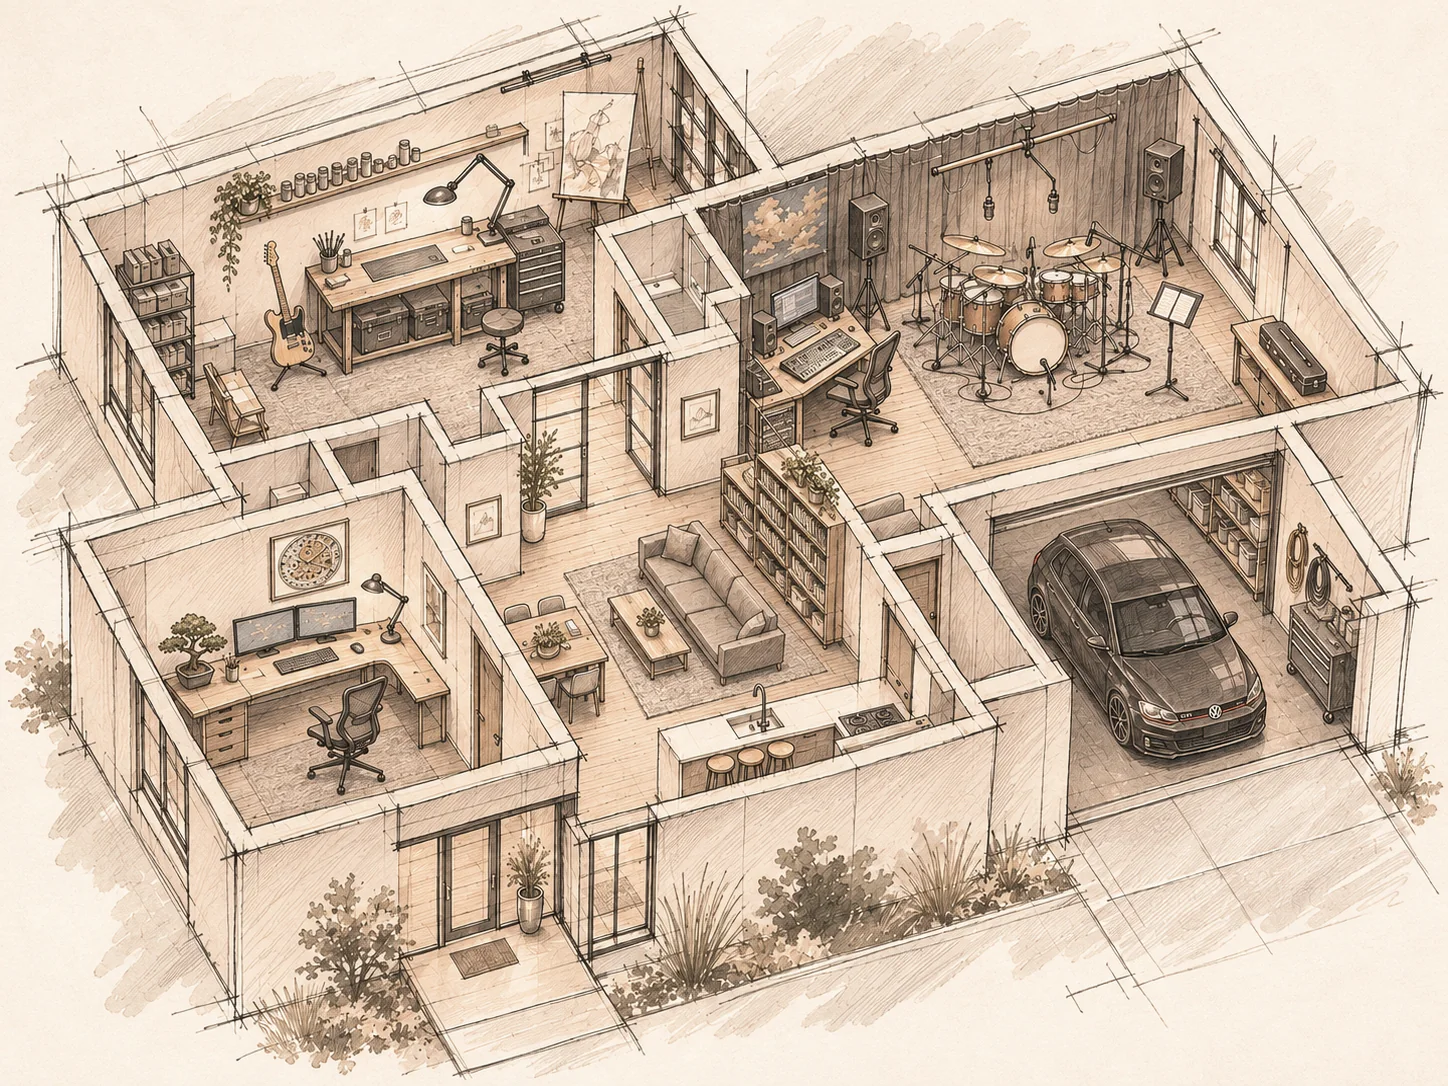
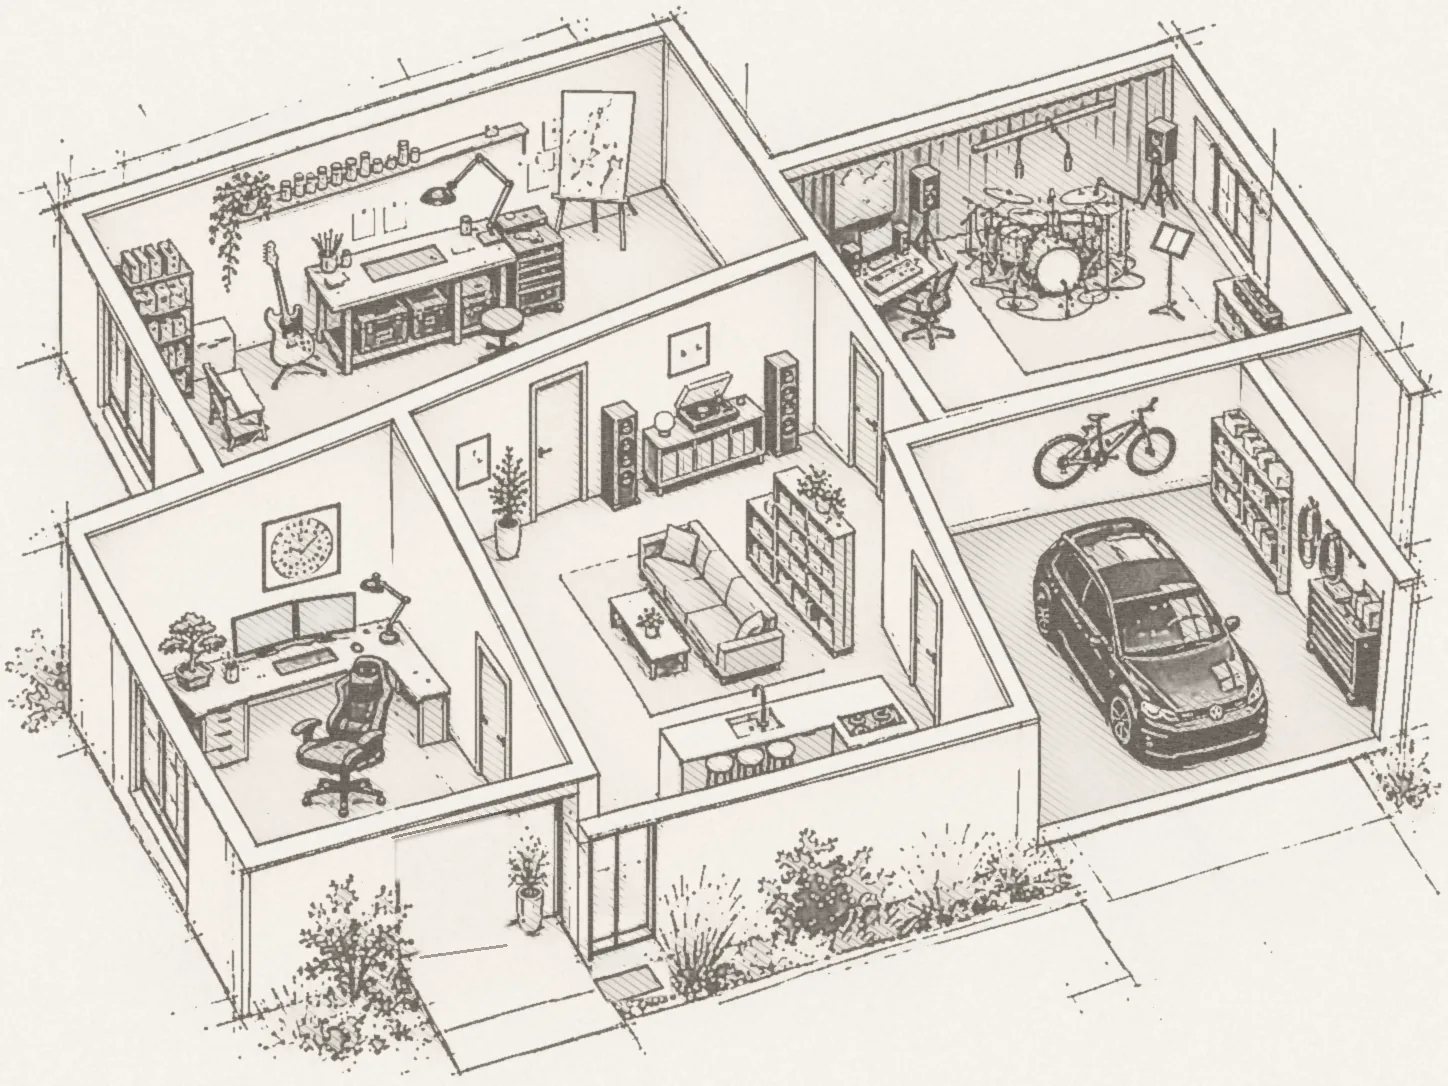
the house: every room drawing through the new sketch pass (pencil lines, light hatched shading, faint wash); new overhead with the entrance moved off the study; Secretlab-style study chair; soldering gun and multimeter on the bench; mountain bike garage; new watch desk stop on the study wall art
Claude-Session: https://claude.ai/code/session_01Jf8rDKExoC99X1NuL9zexr

diff --git a/index.html b/index.html
@@ -654,12 +654,13 @@ function openCard(which){
   /* box: x,y,w,h in the cutaway's pixels. img: the room's own sketch, shown when the camera settles there. */
   var STOPS=[
     {id:'house',  k:'The house',   h:'Everything under one roof.',          t:'Not a real floor plan: a composite of the rooms the work happens in. Each room is a door. Scroll to walk it, or click a room.', pos:'t', cover:true},
-    {id:'study',  k:'Projects',    h:'The study.',                           t:'A dedicated workspace for playing with workflows, with the tools required for photo and 360 video editing: a Canon R10, an Insta360 R1 and the liquid-cooled case required to keep all the good editing software running.', pos:'r', box:[80,500,420,330], img:'img/rooms/study.webp', href:'#projects', card:'technical'},
-    {id:'shelf',  k:'Reading',     h:'The shelf.',                           t:'Books and records I&rsquo;ve been into lately, and a few items I&rsquo;ve put together to share with whoever is interested!', pos:'r', box:[700,440,180,220], href:'#now', extra:'<a href="free/">stuff I made for you to take &rarr;</a>'},
-    {id:'bench',  k:'Builds',      h:'The guitar bench.',                    t:'A Telecaster on the stand, jars on the shelf, the toolbox on casters. The half-finished things are the honest ones.', pos:'l', box:[80,100,560,340], img:'img/rooms/guitar-bench.webp', href:'#projects'},
-    {id:'easel',  k:'Sketchbook',  h:'The easel.',                           t:'Stipple, pencil, the occasional watch dial. Whatever is under the pen right now, and everything before it.', pos:'r', box:[520,70,150,160], href:'#sketchbook'},
-    {id:'music',  k:'Music',       h:'The loud room.',                       t:'A rehearsal and recording space, ready for whenever inspiration may strike.', pos:'l', box:[700,90,620,380], img:'img/rooms/music-room.webp', href:'#about', card:'creative'},
-    {id:'garage', k:'',            h:'The Garage',                           t:'My GTI project, mountain bike and the tools to get greasy.', pos:'l', box:[960,450,430,350], img:'img/rooms/garage.webp',
+    {id:'study',  k:'Projects',    h:'The study.',                           t:'A dedicated workspace for playing with workflows, with the tools required for photo and 360 video editing: a Canon R10, an Insta360 R1 and the liquid-cooled case required to keep all the good editing software running.', pos:'r', box:[70,420,530,410], img:'img/rooms/study.webp', href:'#projects', card:'technical'},
+    {id:'watch',  k:'Watches',     h:'The watch desk.',                      t:'A loupe, a row of oilers, two parts domes, a small palette of mixed oils and two fine brushes. Automatic movements, and dials painted a dot at a time.', pos:'r', box:[255,495,100,110], img:'img/rooms/watch-desk.webp', href:'#sketchbook'},
+    {id:'shelf',  k:'Reading',     h:'The shelf.',                           t:'Books and records I&rsquo;ve been into lately, and a few items I&rsquo;ve put together to share with whoever is interested!', pos:'r', box:[590,340,280,320], href:'#now', extra:'<a href="free/">stuff I made for you to take &rarr;</a>'},
+    {id:'bench',  k:'Builds',      h:'The guitar bench.',                    t:'A Telecaster on the stand, a soldering gun on the bench and a multimeter on the toolbox. The half-finished things are the honest ones.', pos:'l', box:[90,90,700,370], img:'img/rooms/guitar-bench.webp', href:'#projects'},
+    {id:'easel',  k:'Sketchbook',  h:'The easel.',                           t:'Stipple, pencil, the occasional watch dial. Whatever is under the pen right now, and everything before it.', pos:'r', box:[540,80,110,160], href:'#sketchbook'},
+    {id:'music',  k:'Music',       h:'The loud room.',                       t:'A rehearsal and recording space, ready for whenever inspiration may strike.', pos:'l', box:[780,60,620,340], img:'img/rooms/music-room.webp', href:'#about', card:'creative'},
+    {id:'garage', k:'',            h:'The Garage',                           t:'My GTI project, mountain bike and the tools to get greasy.', pos:'l', box:[900,330,520,490], img:'img/rooms/garage.webp',
       notes:['2017 Volkswagen GTI Performance','EQT Stage 2 ECU Tune, 93 Oct','EQT TCU Tune','APR Open Intake','APR Turbo Inlet','IE Downpipe','CTS Exhaust','H&amp;R Sport Springs on OEM DCC']}
   ];
   sec.style.setProperty('--stops', STOPS.length);

diff --git a/tools/sketchify.py b/tools/sketchify.py
@@ -1,0 +1,115 @@
+"""Sketch pass: turns a polished render into a loose pencil sketch with a light wash.
+
+Every room drawing on the site goes through this, so the set shares one hand no matter
+how prettily the source was rendered. Steps:
+  1. edge-preserving smoothing flattens fine texture, glossy reflections and over-rendered hatching
+  2. XDoG (extended difference of Gaussians) pulls pencil line work out of the flattened image
+  3. a faint wash: the flattened image, heavily desaturated and pulled toward the paper colour
+  4. graphite lines multiplied over paper plus wash, with a little grain so lines read as pencil
+
+Usage: python3 tools/sketchify.py in.png out.png [--wash 0.32] [--sat 0.35] [--detail 1.0] [--smooth 60]
+  --wash   opacity of the colour wash under the lines (0 = pure pencil, 1 = full render)
+  --sat    saturation kept in the wash (0 = grey, 1 = source)
+  --detail line fineness: lower = fewer, bolder lines; higher = more, finer lines
+  --smooth how hard step 1 flattens texture (higher = flatter, fewer reflections)
+"""
+import sys, argparse
+import numpy as np
+import cv2
+
+ap = argparse.ArgumentParser()
+ap.add_argument('src'); ap.add_argument('dst')
+ap.add_argument('--wash', type=float, default=0.32)
+ap.add_argument('--sat', type=float, default=0.35)
+ap.add_argument('--detail', type=float, default=1.0)
+ap.add_argument('--smooth', type=float, default=60)
+ap.add_argument('--seed', type=int, default=3)
+ap.add_argument('--crush', type=float, default=0.0, help='0..1: flatten tones below 0.4 so reflections inside dark paint vanish')
+ap.add_argument('--eps', type=float, default=0.72, help='XDoG threshold: lower = only real edges become lines, mid-tones stay paper')
+ap.add_argument('--shade', type=float, default=0.0, help='0..1: clean hatched shading from the image darkness, drawn separately from the lines')
+ap.add_argument('--fill_lo', type=float, default=0.30)
+ap.add_argument('--fill_hi', type=float, default=0.62)
+a = ap.parse_args()
+rng = np.random.default_rng(a.seed)
+
+PAPER = np.array([235, 241, 244], np.float32) / 255.0     # BGR of #f4f1eb, the site's paper
+GRAPHITE = np.array([62, 70, 78], np.float32) / 255.0     # BGR of #4e463e, warm graphite (pencil, not ink)
+
+src = cv2.imread(a.src, cv2.IMREAD_COLOR)
+h, w = src.shape[:2]
+
+# 1. flatten: two edge-preserving passes (recursive filter) plus a light bilateral
+flat = cv2.edgePreservingFilter(src, flags=1, sigma_s=a.smooth, sigma_r=0.35)
+flat = cv2.edgePreservingFilter(flat, flags=1, sigma_s=a.smooth * 0.5, sigma_r=0.3)
+flat = cv2.bilateralFilter(flat, 7, 40, 7)
+
+# 2. XDoG line work on the flattened luminance
+g = cv2.cvtColor(flat, cv2.COLOR_BGR2GRAY).astype(np.float32) / 255.0
+if a.crush > 0:
+    T = 0.42
+    g = np.where(g < T, T - (T - g) * (1 - a.crush), g)
+    g = cv2.medianBlur((g * 255).astype(np.uint8), 5).astype(np.float32) / 255.0 * (a.crush > 0.5) + g * (a.crush <= 0.5)
+sig = 1.15 / max(0.4, a.detail)
+g1 = cv2.GaussianBlur(g, (0, 0), sig)
+g2 = cv2.GaussianBlur(g, (0, 0), sig * 1.6)
+p, eps, phi = 22.0, a.eps, 18.0
+S = (1 + p) * g1 - p * g2
+E = np.where(S >= eps, 1.0, 1.0 + np.tanh(phi * (S - eps)))
+E = np.clip(E, 0, 1)
+# soften the very darkest fills so big dark shapes read as hatched pencil, not ink
+E = 0.18 + 0.82 * E
+# drop isolated specks: anything darker than paper that is tiny and faint
+ink = (1 - E)
+ink = cv2.GaussianBlur(ink, (0, 0), 0.6)
+ink[ink < 0.08] = 0
+
+# large dark fills (a black car, drapes, a shadowed floor) become hatching instead of solid ink:
+# a sketcher shades a big dark shape with strokes and keeps its outline crisp
+fill = cv2.GaussianBlur(ink, (0, 0), 5.0)
+m = np.clip((fill - a.fill_lo) / (a.fill_hi - a.fill_lo), 0, 1)
+m = m * m * (3 - 2 * m)
+yy, xx = np.mgrid[0:h, 0:w].astype(np.float32)
+P = 6.5
+hatch = np.clip((np.cos((xx + yy) * 2 * np.pi / P) - 0.35) / 0.65, 0, 1)
+hatch2 = np.clip((np.cos((xx - yy) * 2 * np.pi / (P * 1.15)) - 0.55) / 0.45, 0, 1)
+tone = 0.30 * hatch + 0.22 * hatch2 * np.clip((fill - 0.7) / 0.3, 0, 1)
+ink = ink * (1 - m) + m * np.clip(0.30 * ink + tone * (0.55 + 0.45 * fill), 0, 0.85)
+
+# clean shading: two or three hatch levels from the smoothed darkness of the flattened image,
+# so shadows read as light pencil strokes instead of mottled fill
+if a.shade > 0:
+    dark = 1 - cv2.GaussianBlur(cv2.cvtColor(flat, cv2.COLOR_BGR2GRAY).astype(np.float32) / 255.0, (0, 0), 4.0)
+    yy2, xx2 = np.mgrid[0:h, 0:w].astype(np.float32)
+    def lines(angle, period, width=0.5):
+        t = np.cos(np.radians(angle)) * xx2 + np.sin(np.radians(angle)) * yy2
+        return np.clip((np.cos(t * 2 * np.pi / period) - (1 - width)) / width, 0, 1)
+    def step(lo, hi): return np.clip((dark - lo) / (hi - lo), 0, 1)
+    shading = (0.55 * lines(-55, 7.0) * step(0.30, 0.40)
+             + 0.45 * lines(35, 8.0) * step(0.50, 0.60)
+             + 0.35 * lines(-55, 3.5, 0.4) * step(0.70, 0.80))
+    shading = cv2.GaussianBlur(shading, (0, 0), 0.5) * a.shade
+    ink = np.maximum(ink, shading)
+
+# pencil grain: modulate line strength with fine noise, a touch of directional streak
+noise = rng.normal(0, 1, (h, w)).astype(np.float32)
+noise = cv2.GaussianBlur(noise, (0, 0), 0.7)
+streak = cv2.blur(rng.normal(0, 1, (h, w)).astype(np.float32), (9, 1))
+grain = np.clip(0.82 + 0.10 * noise + 0.08 * streak, 0.55, 1.0)
+ink = np.clip(ink * grain * 1.02, 0, 0.9)
+
+# 3. wash: flattened colour, desaturated, pulled toward paper
+hsv = cv2.cvtColor(flat, cv2.COLOR_BGR2HSV).astype(np.float32)
+hsv[..., 1] *= a.sat
+wash = cv2.cvtColor(hsv.clip(0, 255).astype(np.uint8), cv2.COLOR_HSV2BGR).astype(np.float32) / 255.0
+wash = cv2.GaussianBlur(wash, (0, 0), 1.2)
+base = PAPER * (1 - a.wash) + wash * a.wash
+# keep the wash from going muddy: lift its darkest values
+base = np.maximum(base, PAPER * 0.68)
+
+# 4. graphite over paper and wash
+out = base * (1 - ink[..., None]) + (GRAPHITE * base) * ink[..., None]
+# paper tooth over everything
+tooth = cv2.GaussianBlur(rng.normal(0, 1, (h, w)).astype(np.float32), (0, 0), 1.0)
+out = out * (1 + 0.018 * tooth[..., None])
+cv2.imwrite(a.dst, (np.clip(out, 0, 1) * 255).astype(np.uint8))
+print(a.dst, 'wash', a.wash, 'sat', a.sat, 'detail', a.detail, 'smooth', a.smooth)

diff --git a/tools/fix_overhead.py b/tools/fix_overhead.py
@@ -1,0 +1,66 @@
+"""Structural fixes painted onto the sketched overhead (after tools/sketchify.py).
+
+Works in the sketch's own vocabulary: flat wash plus graphite lines, so a patch of wall
+colour with paper tooth and a redrawn edge reads as part of the drawing.
+Fix 1 (2026-11-01, Luke): the main entrance opened into the study. The double doors and
+mat are painted out of the study's front wall; the living room's glazed front door becomes
+the entrance and gets the mat.
+Coordinates are in the 1448 x 1086 cutaway (cutaway-v3).
+
+Usage: python3 tools/fix_overhead.py sketched.png out.png
+"""
+import sys
+import numpy as np
+import cv2
+
+src, dst = sys.argv[1], sys.argv[2]
+im = cv2.imread(src, cv2.IMREAD_COLOR).astype(np.float32)
+h, w = im.shape[:2]
+rng = np.random.default_rng(7)
+GRAPHITE = np.array([62, 70, 78], np.float32)
+
+def sample(x0, y0, x1, y1):
+    return np.median(im[y0:y1, x0:x1].reshape(-1, 3), axis=0)
+
+def fill_poly(pts, colour, feather=1.5):
+    m = np.zeros((h, w), np.float32)
+    cv2.fillPoly(m, [np.array(pts, np.int32)], 1.0)
+    m = cv2.GaussianBlur(m, (0, 0), feather)
+    tooth = cv2.GaussianBlur(rng.normal(0, 1, (h, w)).astype(np.float32), (0, 0), 1.0)
+    patch = colour[None, None, :] * (1 + 0.018 * tooth[..., None])
+    im[:] = im * (1 - m[..., None]) + patch * m[..., None]
+
+def pencil_line(p0, p1, weight=2.2, strength=0.78):
+    m = np.zeros((h, w), np.float32)
+    # two passes slightly apart, like a pencil line drawn twice
+    cv2.line(m, tuple(map(int, p0)), tuple(map(int, p1)), 1.0, int(round(weight)), cv2.LINE_AA)
+    q0 = (p0[0] + 0.6, p0[1] + 0.9); q1 = (p1[0] - 0.5, p1[1] + 0.8)
+    m2 = np.zeros((h, w), np.float32)
+    cv2.line(m2, tuple(map(int, q0)), tuple(map(int, q1)), 0.45, 1, cv2.LINE_AA)
+    m = np.clip(m + m2, 0, 1)
+    grain = np.clip(0.85 + 0.12 * cv2.GaussianBlur(rng.normal(0, 1, (h, w)).astype(np.float32), (0, 0), 0.7), 0.5, 1)
+    m = m * grain * strength
+    base = im.copy()
+    im[:] = base * (1 - m[..., None]) + (GRAPHITE / 255.0 * base) * m[..., None]
+
+# --- fix 1: entrance out of the study ---
+wall = sample(322, 822, 382, 858)          # plain stretch of the same front wall
+ground = sample(526, 958, 560, 988)        # the landing in front of the old door
+# copy the doormat before painting it out, so it can move to the living room door
+mat_box = (446, 932, 532, 978)
+mat = im[mat_box[1]:mat_box[3], mat_box[0]:mat_box[2]].copy()
+fill_poly([(394, 840), (506, 813), (506, 950), (418, 962), (416, 880), (392, 880)], wall, 2.4)   # doors and frame, stopping short of the cap line and the bush
+fill_poly([(444, 941), (524, 929), (532, 974), (450, 986)], ground, 2.0)            # the mat
+pencil_line((420, 957), (506, 945), weight=2.0, strength=0.55)                       # wall base, redrawn
+pencil_line((392, 837), (508, 810), weight=2.0, strength=0.6)                        # underside of the wall cap, redrawn
+# mat in front of the living room's glazed door
+mh, mw = mat.shape[:2]
+ox, oy = 588, 958
+sub = im[oy:oy + mh, ox:ox + mw]
+mask = np.zeros((mh, mw), np.float32)
+cv2.fillPoly(mask, [np.array([(2, 12), (mw - 8, 2), (mw - 2, 36), (8, 44)], np.int32)], 1.0)
+mask = cv2.GaussianBlur(mask, (0, 0), 1.2)[..., None]
+im[oy:oy + mh, ox:ox + mw] = sub * (1 - mask) + mat * mask
+
+cv2.imwrite(dst, np.clip(im, 0, 255).astype(np.uint8))
+print(dst)
